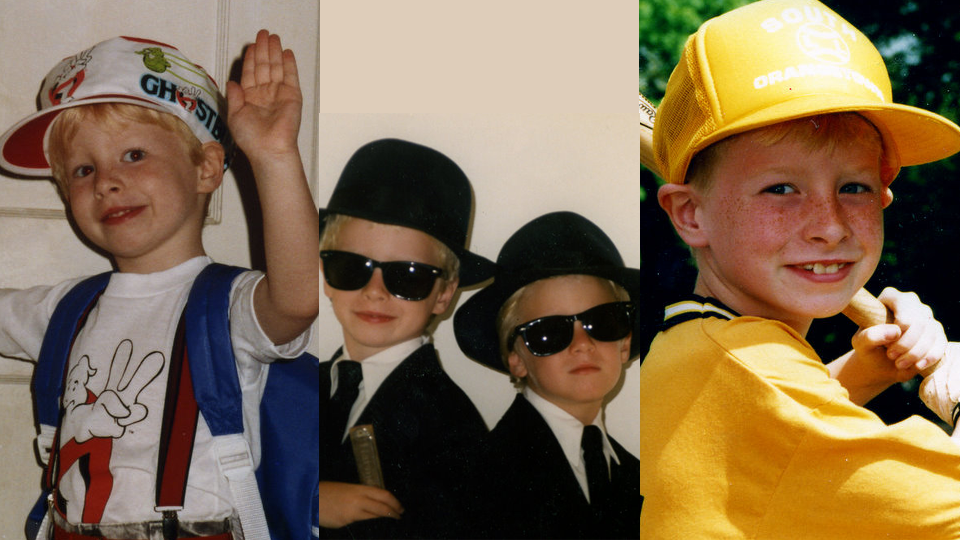
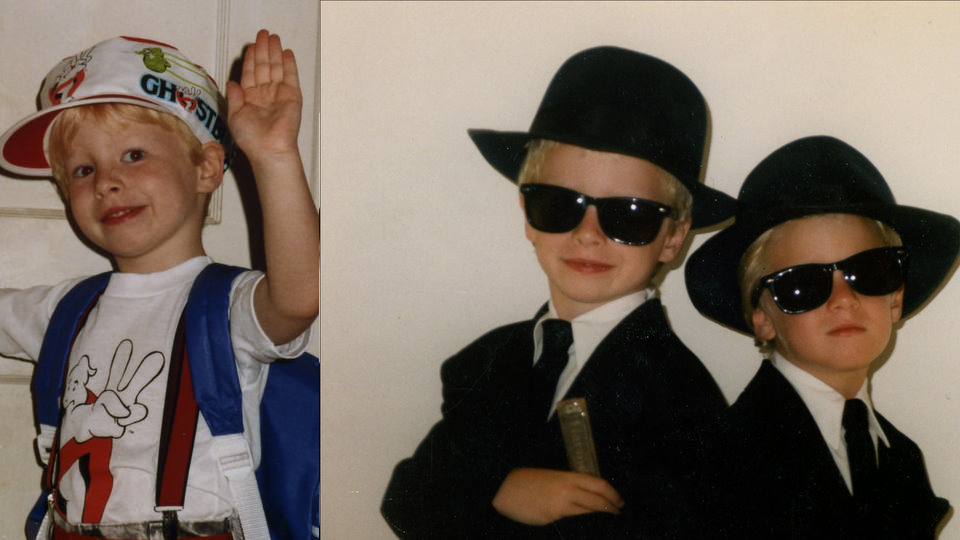
update image view

diff --git a/public/js/views/image.js b/public/js/views/image.js
@@ -15,17 +15,17 @@ define(
         return this;
       },
 
-      _onHashChange: function() {
-        this._render();
+      _onHashChange: function( step ) {
+        this._render( step );
       },
 
-      _render: function() {
-        this.$el.html( this._template() );
+      _render: function( step ) {
+        this.$el.html( this[ '_' + step.name + 'Template' ]( step.img ) );
         return this;
       },
 
-      _template: function() {
-        return '';
+      _aboutTemplate: function( img ) {
+        return '<img src="img/' + img + '">';
       }
     };
   }

diff --git a/app/controllers/steps.js b/app/controllers/steps.js
@@ -3,16 +3,26 @@
 var read = function( req, res ) {
   var steps = [
     {
+      name: 'salad',
       http: {
         url_hash: ''
       }
     },
 
     {
+      name: 'about',
       http: {
-        url_hash: 'about',
-        img: 'ghostbusters.png'
-      }
+        url_hash: 'about'
+      },
+      img: 'ghostbusters.png'
+    },
+
+    {
+      name: 'more',
+      http: {
+        url_hash: 'more'
+      },
+      img: 'tz.png'
     }
   ];
 

diff --git a/public/css/style.css b/public/css/style.css
@@ -108,8 +108,21 @@ img {
 
 .container {
   display: none;
+  width: 768px;
 }
 
 .app.content-view .container {
   display: block;
+}
+
+.container > div {
+  width: 100%;
+}
+
+/**
+ * image view
+ */
+
+.image img {
+  width: 100%;
 }
